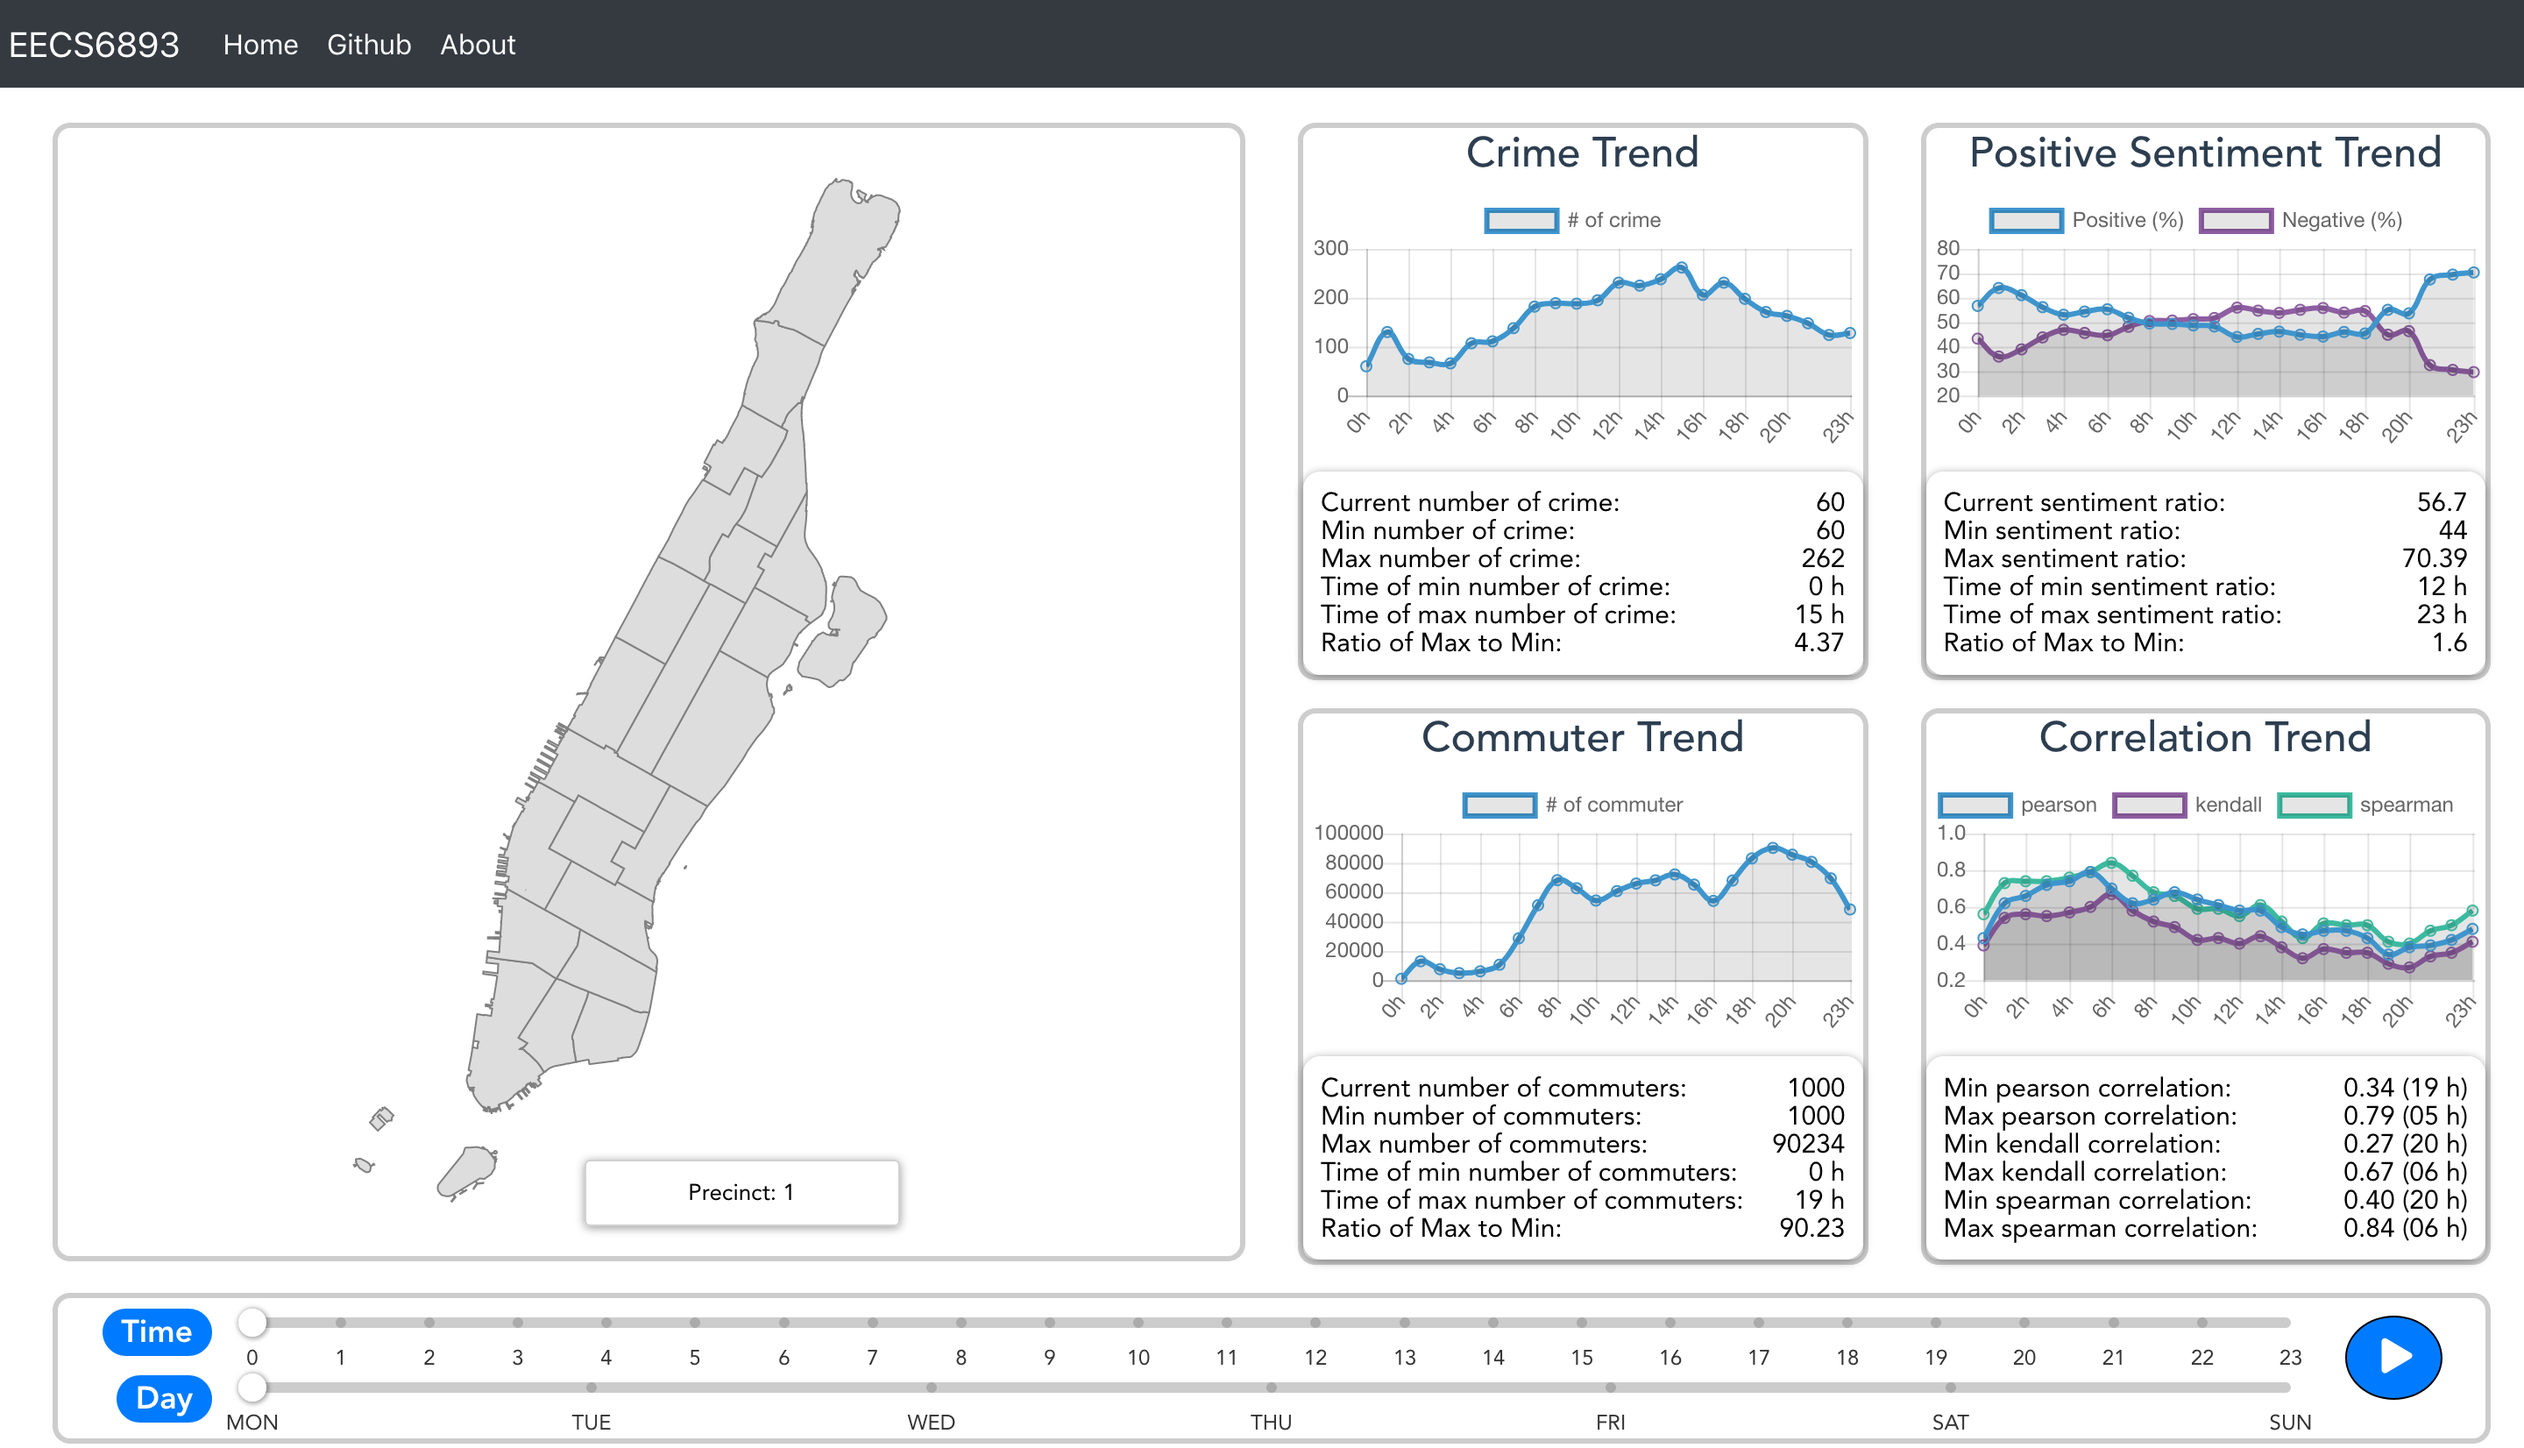
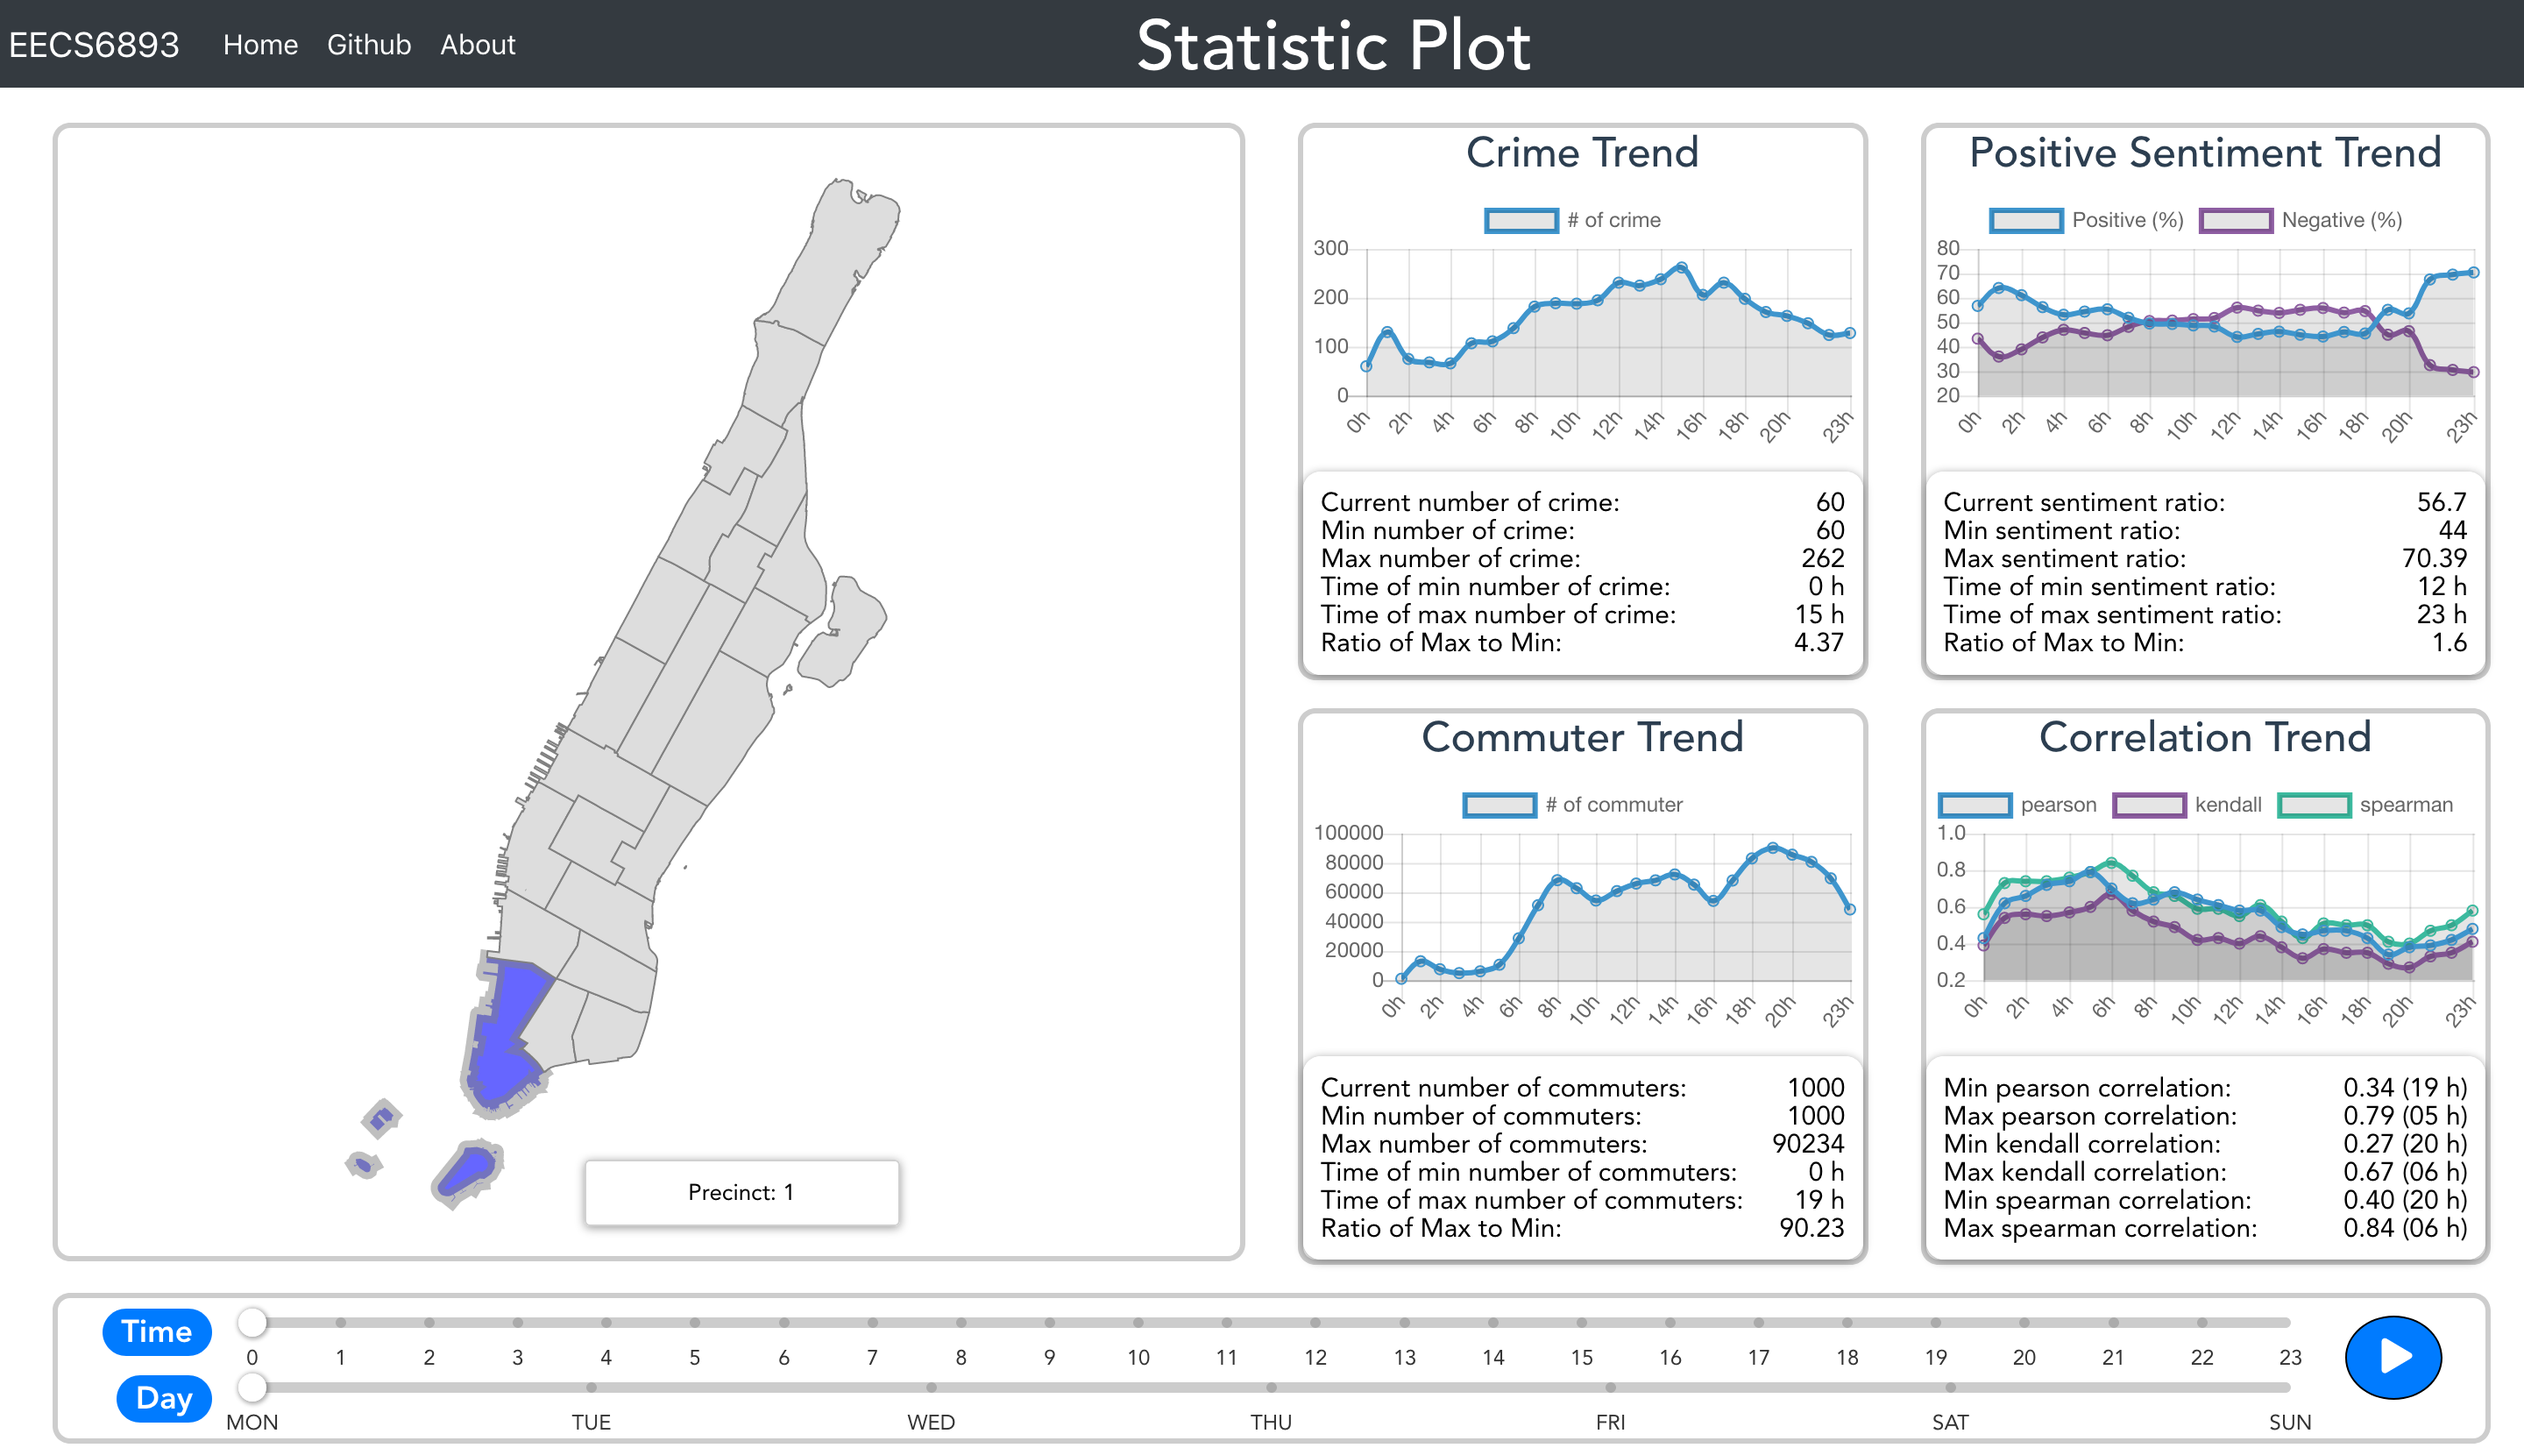
update plot

Changed region(s): [[0.125, 0.6483, 0.2188, 0.8335], [0.4375, 0.0, 0.5938, 0.0617]]

diff --git a/src/components/statistic/index.vue b/src/components/statistic/index.vue
@@ -177,7 +177,7 @@ export default {
   name: 'statistic-plot-page',
   data: function() {
     return {
-      title: 'MISC Plot',
+      title: 'Statistic Plot',
 
       // Commom
       currDay: 2,
